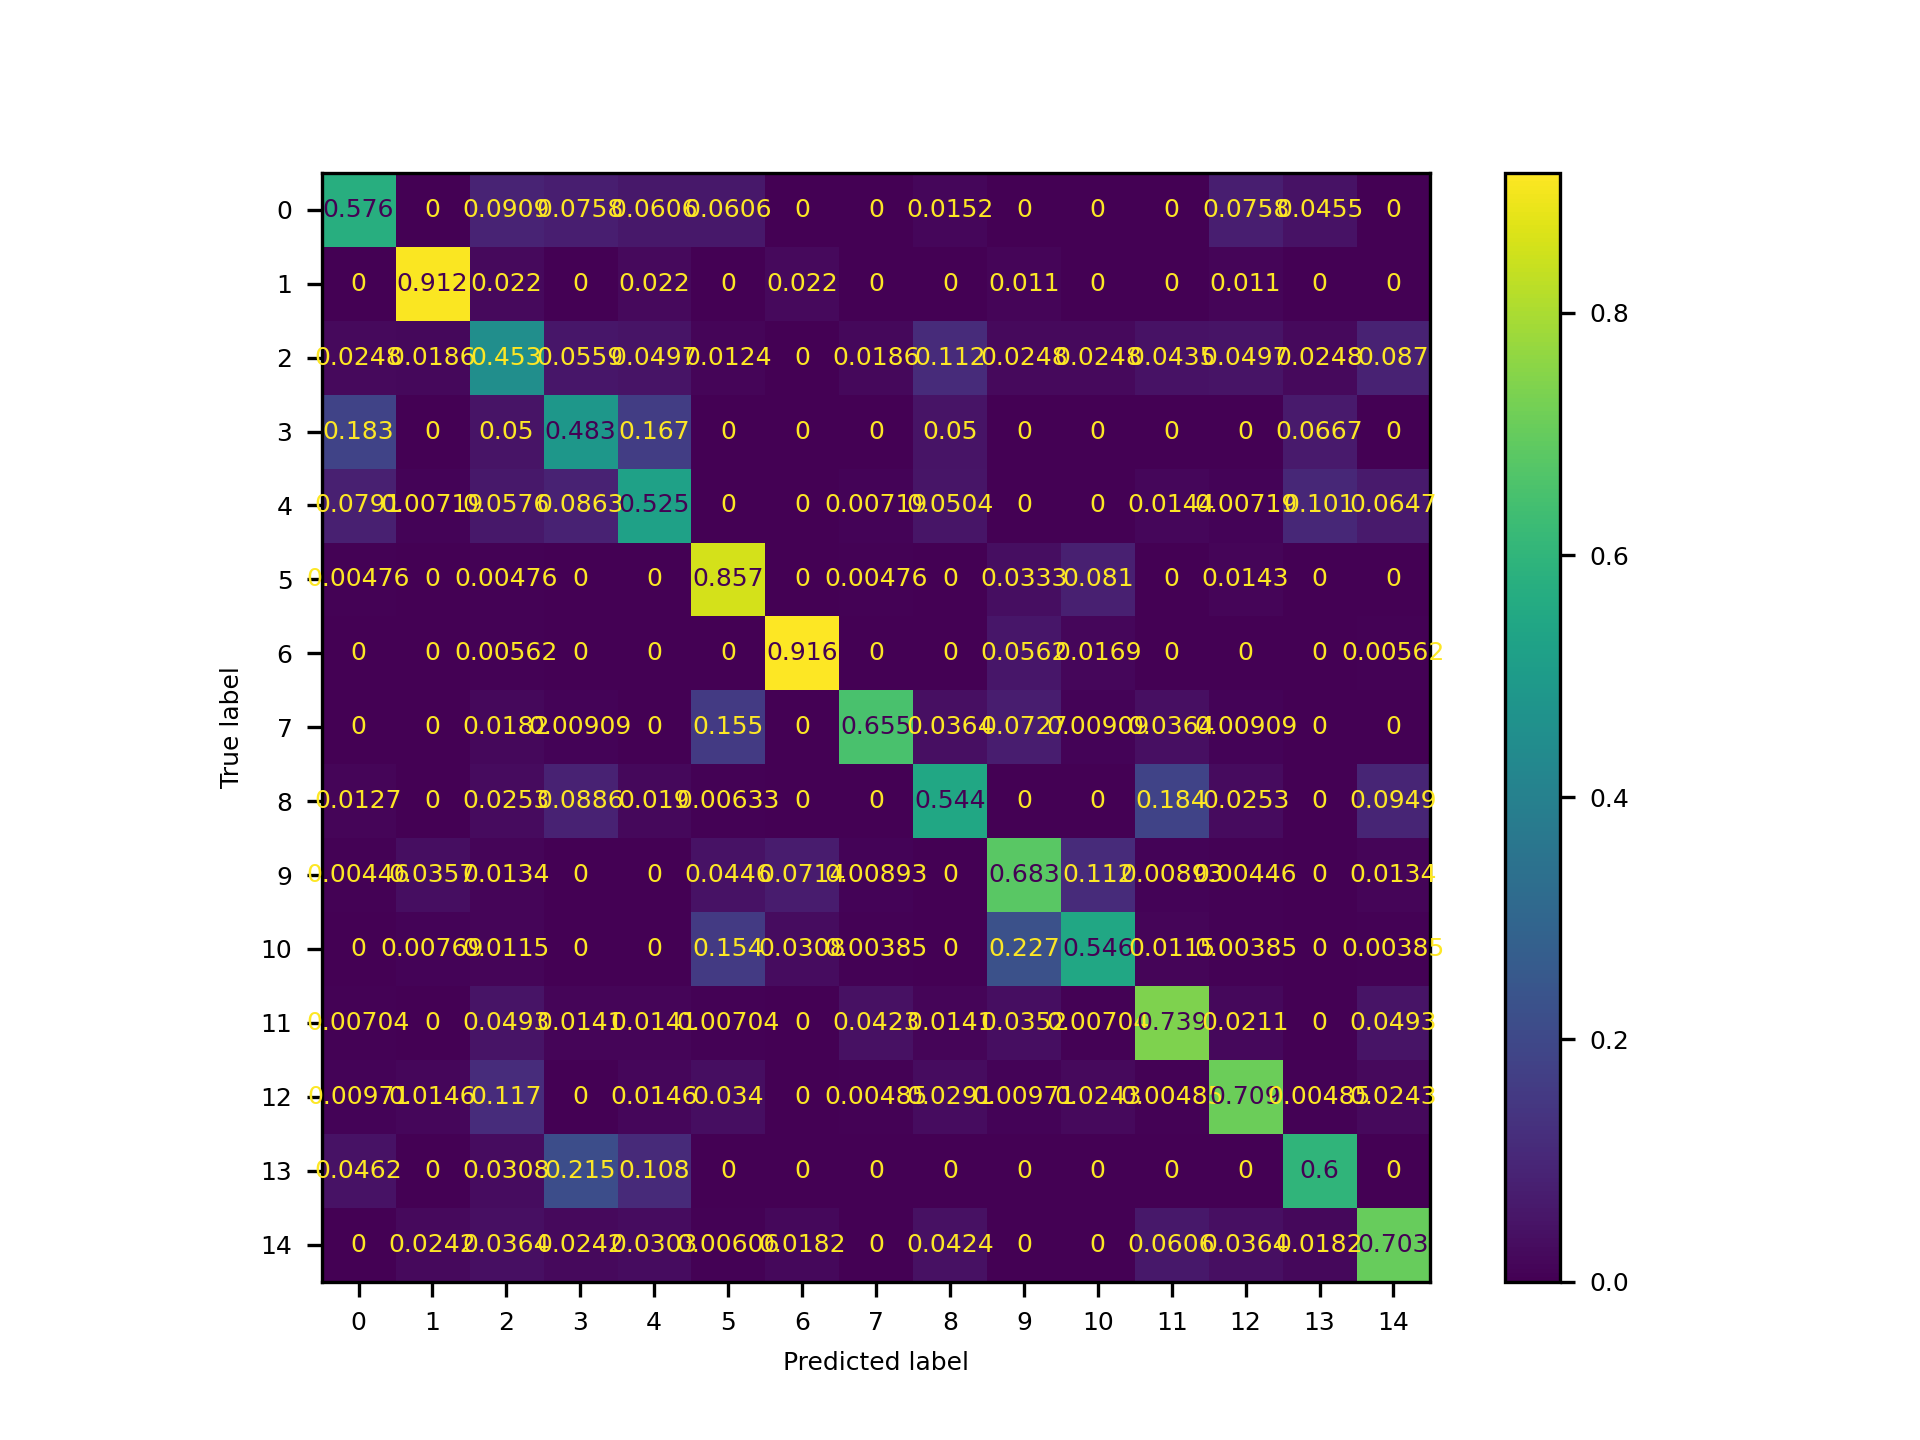
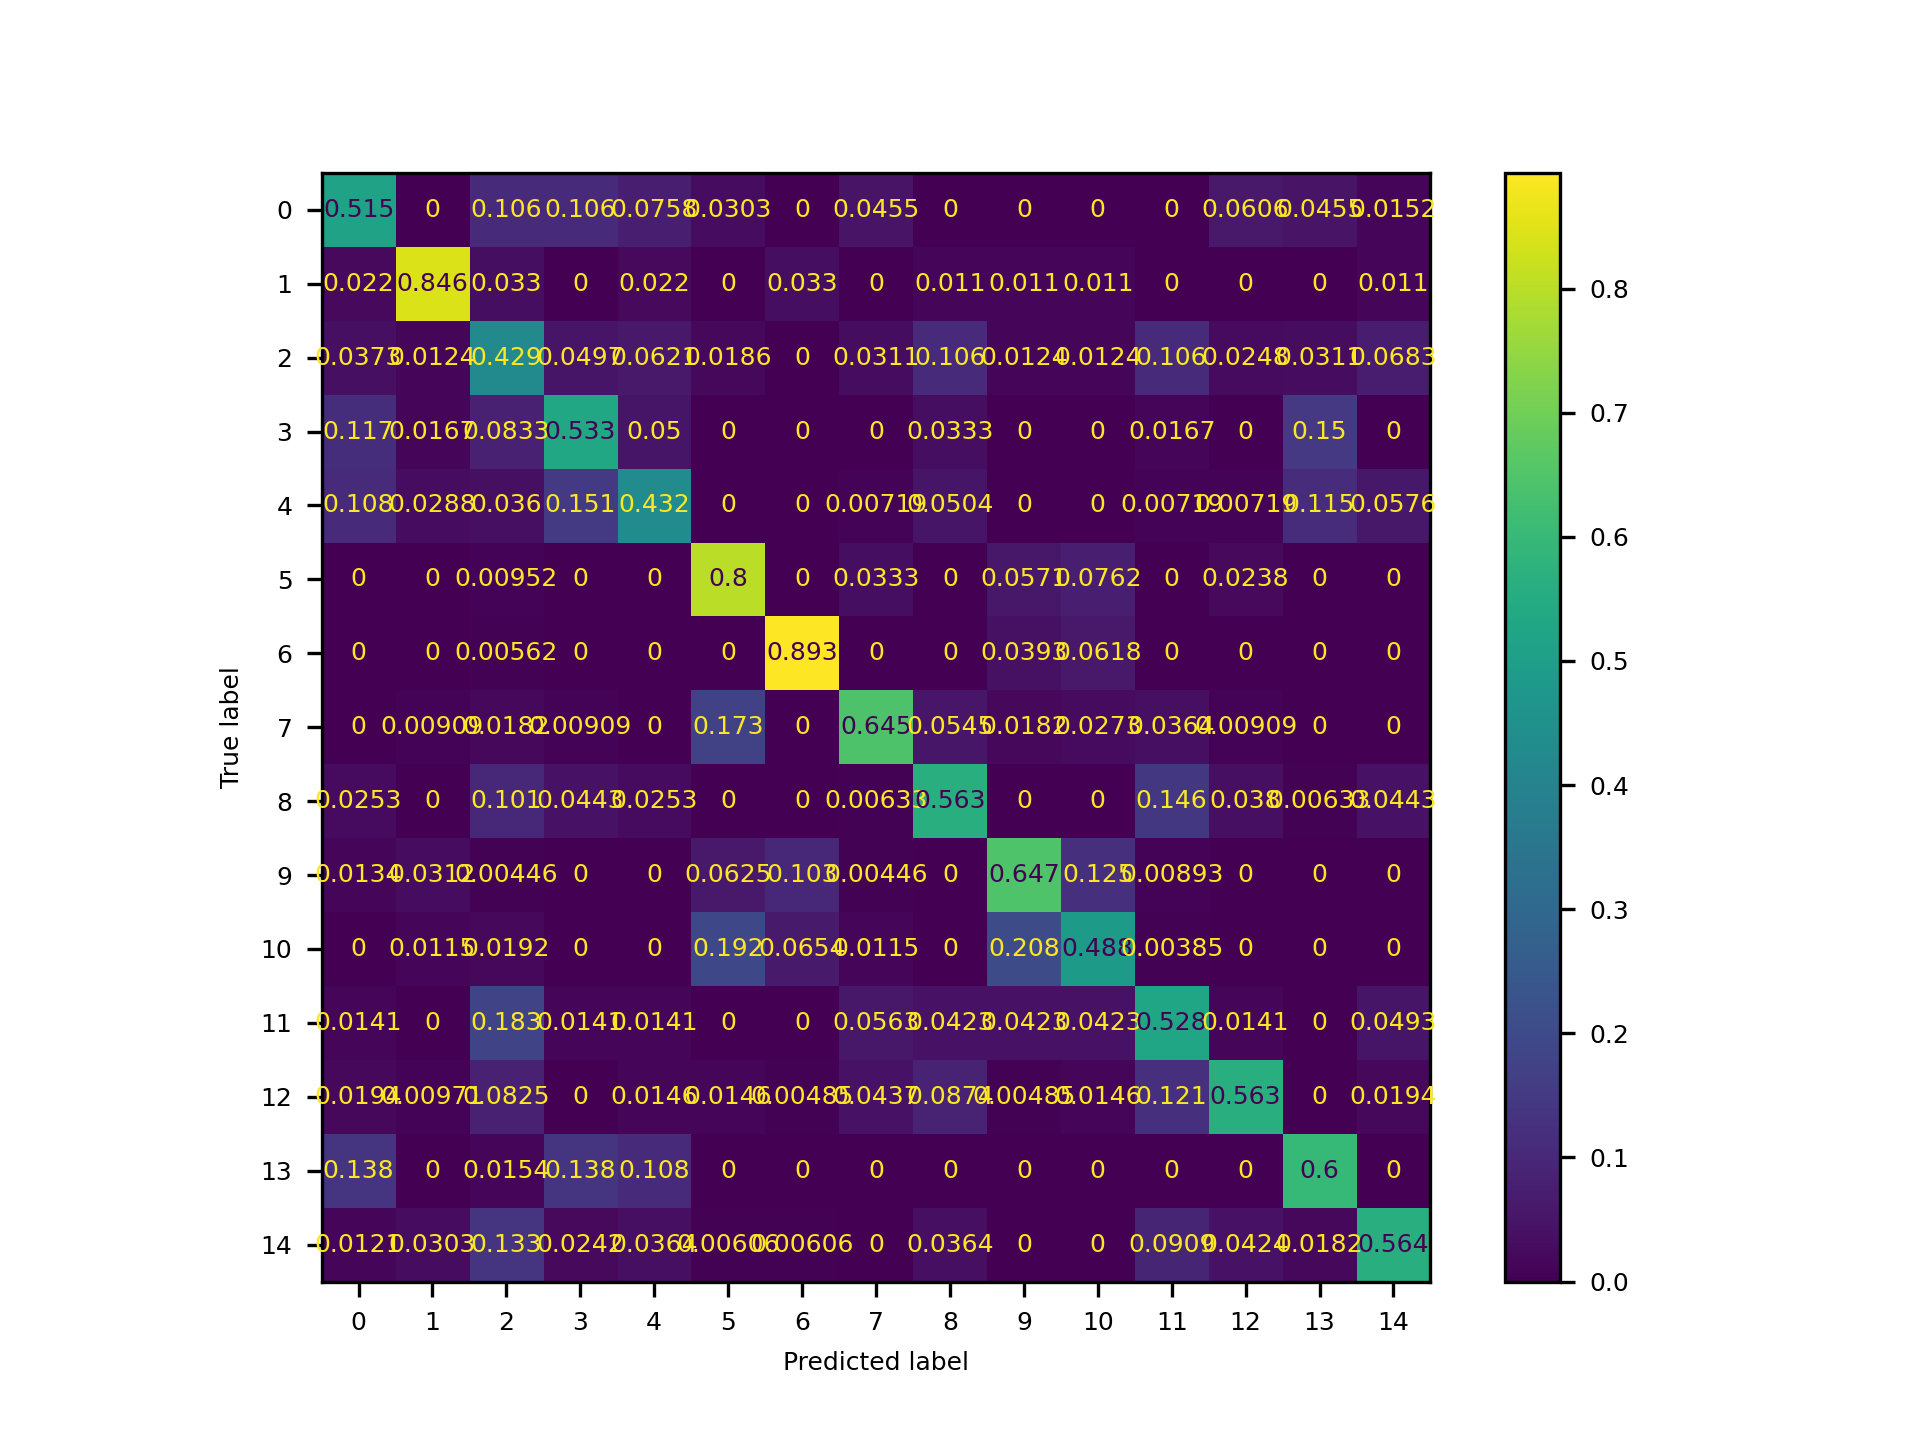
feat: explore two layer SPM performance

diff --git a/bag_of_feature.py b/bag_of_feature.py
@@ -10,13 +10,13 @@ import matplotlib.pyplot as plt
 import numpy as np
 
 # Intel sklearn优化，非intel需要关闭此选项,同时循环运行可能会导致一定的内存泄漏，优化模型参数的时候需要关闭
+# from sklearnex import patch_sklearn
 # patch_sklearn()
 import sklearn.cluster
 import sklearn.metrics
 import sklearn.svm
 from catboost import CatBoostClassifier, Pool
 from hyperopt import fmin, hp, tpe
-from sklearnex import patch_sklearn
 from tqdm import tqdm
 
 warnings.filterwarnings("ignore")
@@ -152,7 +152,9 @@ class BagOfVisualWords:
         sift_label 图像sift标签
         """
         # kms 计算特征描述子所属的类别，计数类别并归一化
-        img_representation = np.zeros((len(sift_des), 21 * vocab_size))  # 图像表示矩阵
+        spatial_level = 0
+        img_representation = np.zeros((len(sift_des), 5 * vocab_size))  # 图像表示矩阵
+
         for img_id in range(len(sift_des)):
             assert len(sift_des[img_id]), len(kp_list[img_id])
             # 针对每个图像 计算图像描述向量
@@ -181,9 +183,11 @@ class BagOfVisualWords:
                     print(kpts[i][0], kpts[i][1])
                     exit()
 
-            l1 = np.zeros((4, vocab_size))
+            l1 = np.zeros((4, vocab_size))  # 不同的空间金字塔
             for grim_id, i in enumerate([0, 2, 8, 10]):
                 l1[grim_id] = l2[i] + l2[i + 1] + l2[i + 4] + l2[i + 5]
+            # for i in range(0, 3):
+            #     l1[i] = l2[i * 4] + l2[i * 4 + 1] + l2[i * 4 + 2] + l2[i * 4 + 3]
 
             l0 = np.zeros((1, vocab_size))
             l0[0] += np.sum(l1, axis=0)
@@ -192,8 +196,11 @@ class BagOfVisualWords:
             # 权重 https://www.cnblogs.com/lxjshuju/p/7300861.html 1/2^(L-l)
             l1 = l1 / 2
             l0 = l0 / 4
+            # 不同的空间金字塔层数
             img_representation[img_id] = np.concatenate(
-                [l0.flatten(), l1.flatten(), l2.flatten()]
+                # [l0.flatten(), l1.flatten(), l2.flatten()]
+                [l0.flatten(), l1.flatten()]
+                # [l0.flatten()]
             )
 
         # img_label = np.array(sift_label)
@@ -237,7 +244,6 @@ class BagOfVisualWords:
         print(metrics)
         return pred, metrics
 
-    # @profile
     def pipeline(
         self,
         nOctaveLayers=5,
@@ -245,11 +251,13 @@ class BagOfVisualWords:
         vocab_size=1000,
         C=100,
         kernel="rbf",
-        cm_label="precision",
+        spm_label="1",  # 0,1,1a (不同的第二层组织形式),1+(第一层不同形式组织两次),2,
+        metric_label="precision",
         plt_cm=True,
     ):
         # 写入整体训练重复流程，用于优化参数
         # 提取sift特征 获得描述子，关键点和图像形状数组
+
         self.des_train, self.kp_train, self.shp_train = self.sift_extract(
             self.imgs_train,
             nOctaveLayers=nOctaveLayers,
@@ -278,7 +286,9 @@ class BagOfVisualWords:
         self.pred_test, self.metrics = self.evaluate()
         if plt_cm:
             self.plt_confusion_matrix(
-                text=f"{cm_label}_{vocab_size}_{C}_{kernel}"
+                text=f"spm{spm_label}-"
+                + f"{metric_label}{self.metrics[metric_label]:.3f}-"
+                + f"{nOctaveLayers}_{contrastThreshold}_{vocab_size}_{C}"
             )  # 混淆矩阵
         # 释放内存
         del self.kmeans, self.classfier, self.rep_train, self.rep_test
@@ -290,7 +300,7 @@ class BagOfVisualWords:
         # cfmx = sklearn.metrics.confusion_matrix(
         #     self.label_test, self.test_pred, normalize="true"
         # )
-        plt.rcParams.update({"font.size": 6})
+        plt.rcParams.update({"font.size": 5})
         sklearn.metrics.ConfusionMatrixDisplay.from_predictions(
             self.label_test,
             self.pred_test,
@@ -300,9 +310,7 @@ class BagOfVisualWords:
         # plt.text()
 
         plt.show()
-        plt.savefig(
-            os.path.join(self.save_dir, f"confusion_matrix_{text}.png"), dpi=300
-        )
+        plt.savefig(os.path.join(self.save_dir, f"cm_{text}.png"), dpi=300)
         pass
 
     # @profile
@@ -321,7 +329,7 @@ class BagOfVisualWords:
         def obj(params):
             m = self.pipeline(
                 **params,
-                cm_label=metric,
+                metric_label=metric,
                 plt_cm=False,
             )
             return -m[metric]
@@ -341,9 +349,16 @@ if __name__ == "__main__":
     model = BagOfVisualWords()
     # model.optimize("precision")  # precision,recall,f1,accuracy
 
+    # model.pipeline(
+    #     vocab_size=317,
+    #     C=8.46,
+    #     contrastThreshold=0.0244,
+    #     nOctaveLayers=6,
+    # )  # precision最佳 三层SPM
+
     model.pipeline(
-        vocab_size=317,
-        C=8.46,
-        contrastThreshold=0.0244,
+        vocab_size=746,
+        C=16.63,
+        contrastThreshold=0.0269,
         nOctaveLayers=6,
-    )  # precision最佳
+    )  # precision最佳 双层SPM
